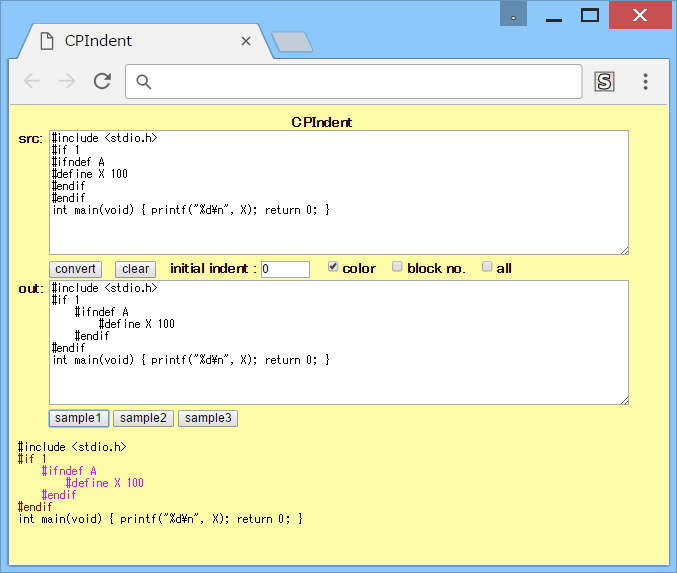
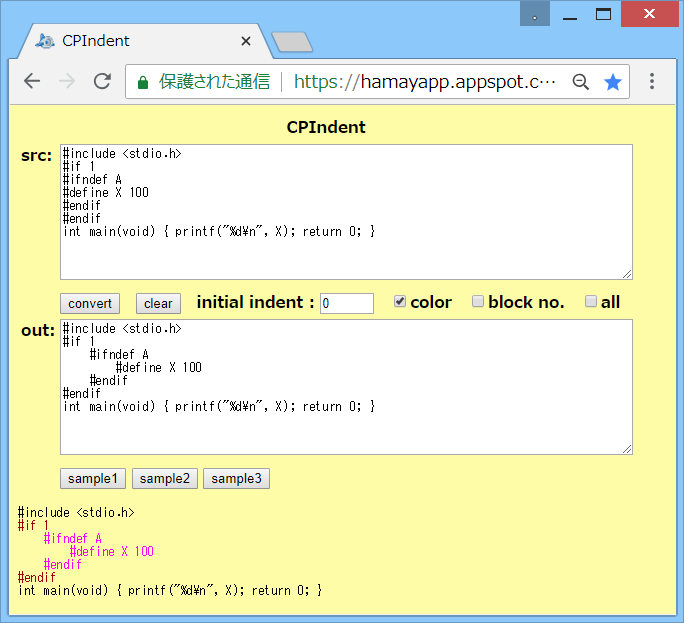
src chg v1.11

diff --git a/cpindent.html b/cpindent.html
@@ -5,7 +5,7 @@
 <title>CPIndent</title>
 <!--
     cpindent.html
-    2017-7-17 v1.10
+    2018-6-26 v1.11
 -->
 <style type="text/css">
 <!--
@@ -13,6 +13,7 @@
     background-color: #fffca8; /* 背景色 */
     color: #000000;            /* 文字色 */
 }
+td { font-weight: bold; }
 -->
 </style>
 <script type="text/javascript">
@@ -99,34 +100,34 @@ function sample_button(sample_no) {
     switch (sample_no) {
         case 0:
             src_st = "#include <stdio.h>\n"
-                + "#if 1\n"
-                + "#ifndef A\n"
-                + "#define X 100\n"
-                + "#endif\n"
-                + "#endif\n"
-                + "int main(void) { printf(\"%d\\n\", X); return 0; }\n";
+                   + "#if 1\n"
+                   + "#ifndef A\n"
+                   + "#define X 100\n"
+                   + "#endif\n"
+                   + "#endif\n"
+                   + "int main(void) { printf(\"%d\\n\", X); return 0; }\n";
             break;
         case 1:
             src_st = "#include <stdio.h>\n"
-                + "#if 1 + 2 + 3 + \\\n"
-                + "    4 + 5 + 6\n"
-                + "#define X 100\n"
-                + "#else\n"
-                + "#define X 200\n"
-                + "#endif\n"
-                + "int main(void) { printf(\"%d\\n\", X); return 0; }\n";
+                   + "#if 1 + 2 + 3 + \\\n"
+                   + "    4 + 5 + 6\n"
+                   + "#define X 100\n"
+                   + "#else\n"
+                   + "#define X 200\n"
+                   + "#endif\n"
+                   + "int main(void) { printf(\"%d\\n\", X); return 0; }\n";
             break;
         case 2:
             src_st = "#include <stdio.h>\n"
-                + "#if 1\n"
-                + "#define SWAP_INT(a, b) \\\n"
-                + "    do {               \\\n"
-                + "        int tmp = a;   \\\n"
-                + "        a = b;         \\\n"
-                + "        b = tmp;       \\\n"
-                + "    } while (0)\n"
-                + "#endif\n"
-                + "int main(void) { int a = 1, b = 2; SWAP_INT(a, b); printf(\"%d %d\\n\", a, b); return 0; }\n";
+                   + "#if 1\n"
+                   + "#define SWAP_INT(a, b) \\\n"
+                   + "    do {               \\\n"
+                   + "        int tmp = a;   \\\n"
+                   + "        a = b;         \\\n"
+                   + "        b = tmp;       \\\n"
+                   + "    } while (0)\n"
+                   + "#endif\n"
+                   + "int main(void) { int a = 1, b = 2; SWAP_INT(a, b); printf(\"%d %d\\n\", a, b); return 0; }\n";
             break;
     }
     document.getElementById("src_text1").value = src_st;
@@ -590,31 +591,31 @@ var CPIndent;
 <body class="main_container">
 
 <form action="#" onsubmit="convert_button(); return false;">
-<table width="95%"><tr>
-<th align="center" colspan="3">CPIndent</th>
+<table style="width: 95%;"><tr>
+<td colspan="3" style="text-align: center;">CPIndent</td>
 </tr><tr>
-<th align="left" valign="top">src:</th>
-<th align="left" width="95%"><textarea id="src_text1" cols="40" rows="10" style="width: 100%;"></textarea></th>
-<th></th>
+<td style="vertical-align: top;">src:</td>
+<td style="width: 95%;"><textarea id="src_text1" cols="40" rows="10" style="width: 100%;"></textarea></td>
+<td></td>
 </tr><tr>
-<th></th>
-<th align="left"><input type="submit" value="convert"> &nbsp;
+<td></td>
+<td><input type="submit" value="convert"> &nbsp;
 <input type="button" value="clear" onclick="clear_button();"> &nbsp;
 initial indent : <input type="text" id="init_indent" value="0" style="width: 50px;"> &nbsp;
-<input type="checkbox" id="show_color" checked>color &nbsp;
-<input type="checkbox" id="show_block_no">block no. &nbsp;
-<input type="checkbox" id="indent_all">all</th>
-<th></th>
+<input type="checkbox" id="show_color" value="1" checked>color &nbsp;
+<input type="checkbox" id="show_block_no" value="1">block no. &nbsp;
+<input type="checkbox" id="indent_all" value="1">all</td>
+<td></td>
 </tr><tr>
-<th align="left" valign="top">out:</th>
-<th align="left" width="95%"><textarea id="out_text1" cols="40" rows="10" style="width: 100%;"></textarea></th>
-<th></th>
+<td style="vertical-align: top;">out:</td>
+<td style="width: 95%;"><textarea id="out_text1" cols="40" rows="10" style="width: 100%;"></textarea></td>
+<td></td>
 </tr><tr>
-<th></th>
-<th align="left"><input type="button" value="sample1" onclick="sample_button(0);">
+<td></td>
+<td><input type="button" value="sample1" onclick="sample_button(0);">
 <input type="button" value="sample2" onclick="sample_button(1);">
-<input type="button" value="sample3" onclick="sample_button(2);"></th>
-<th></th>
+<input type="button" value="sample3" onclick="sample_button(2);"></td>
+<td></td>
 </tr></table>
 <div id="no_change" style="display: none;"><br><b>[ no change ]</b></div>
 <pre><span id="debug_show1"></span></pre>

diff --git a/README.md b/README.md
@@ -64,6 +64,7 @@
 - 2017-4-18  v1.08 文字列の解析処理見直し等
 - 2017-6-6   v1.09 コメント修正のみ
 - 2017-7-17  v1.10 書式修正等
+- 2018-6-26  v1.11 HTML見直し
 
 
-(2017-7-17)
+(2018-6-26)
